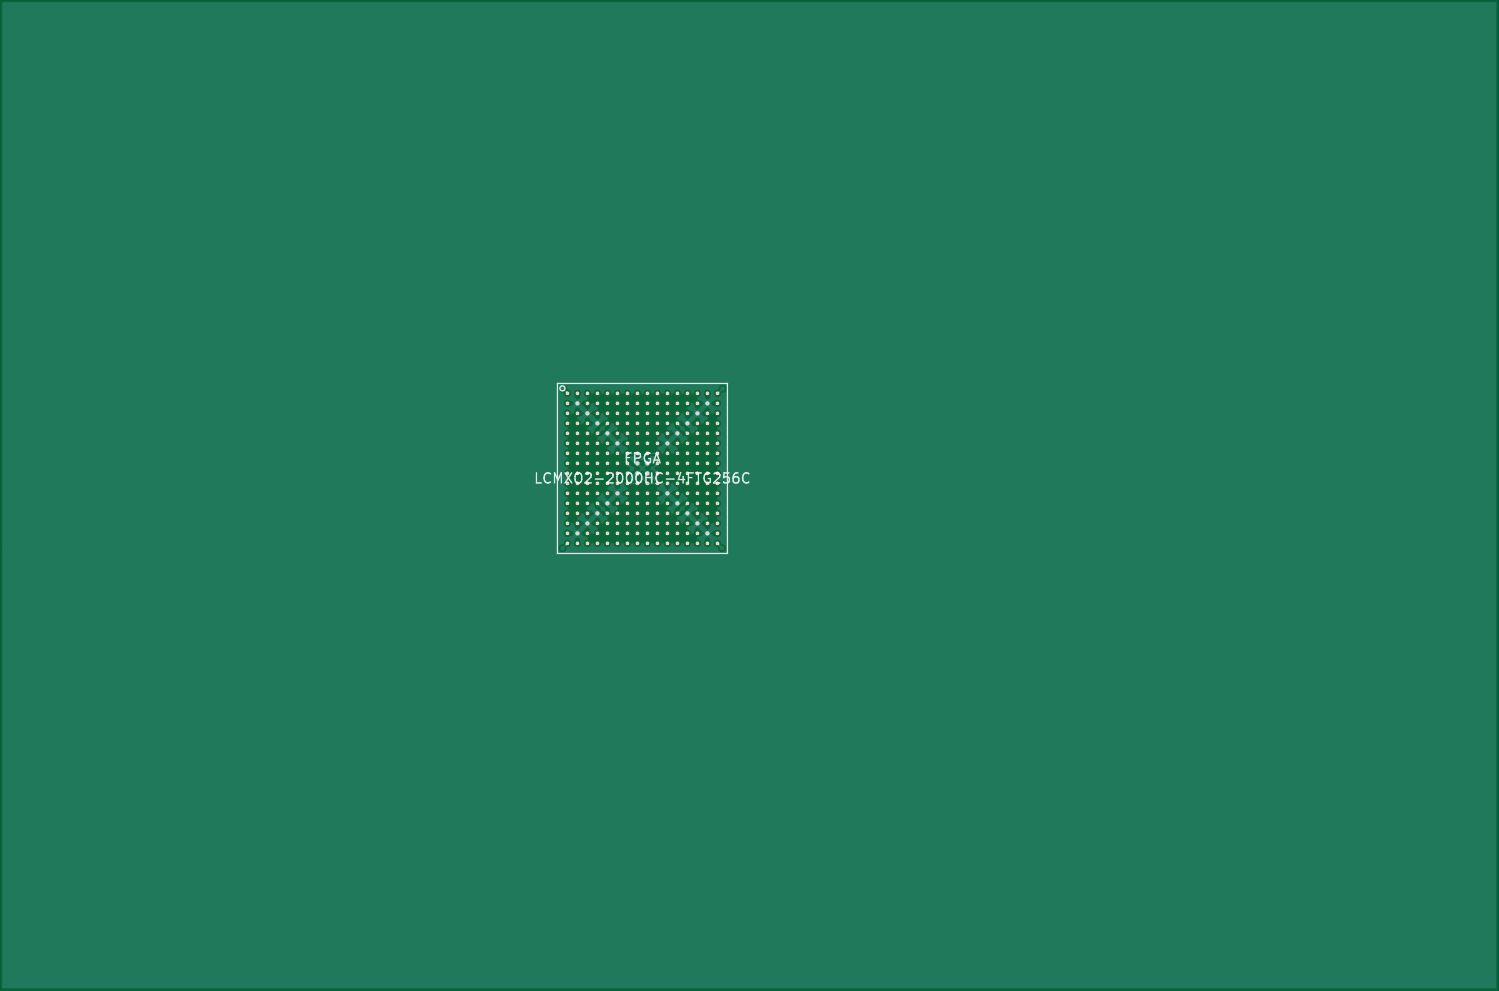
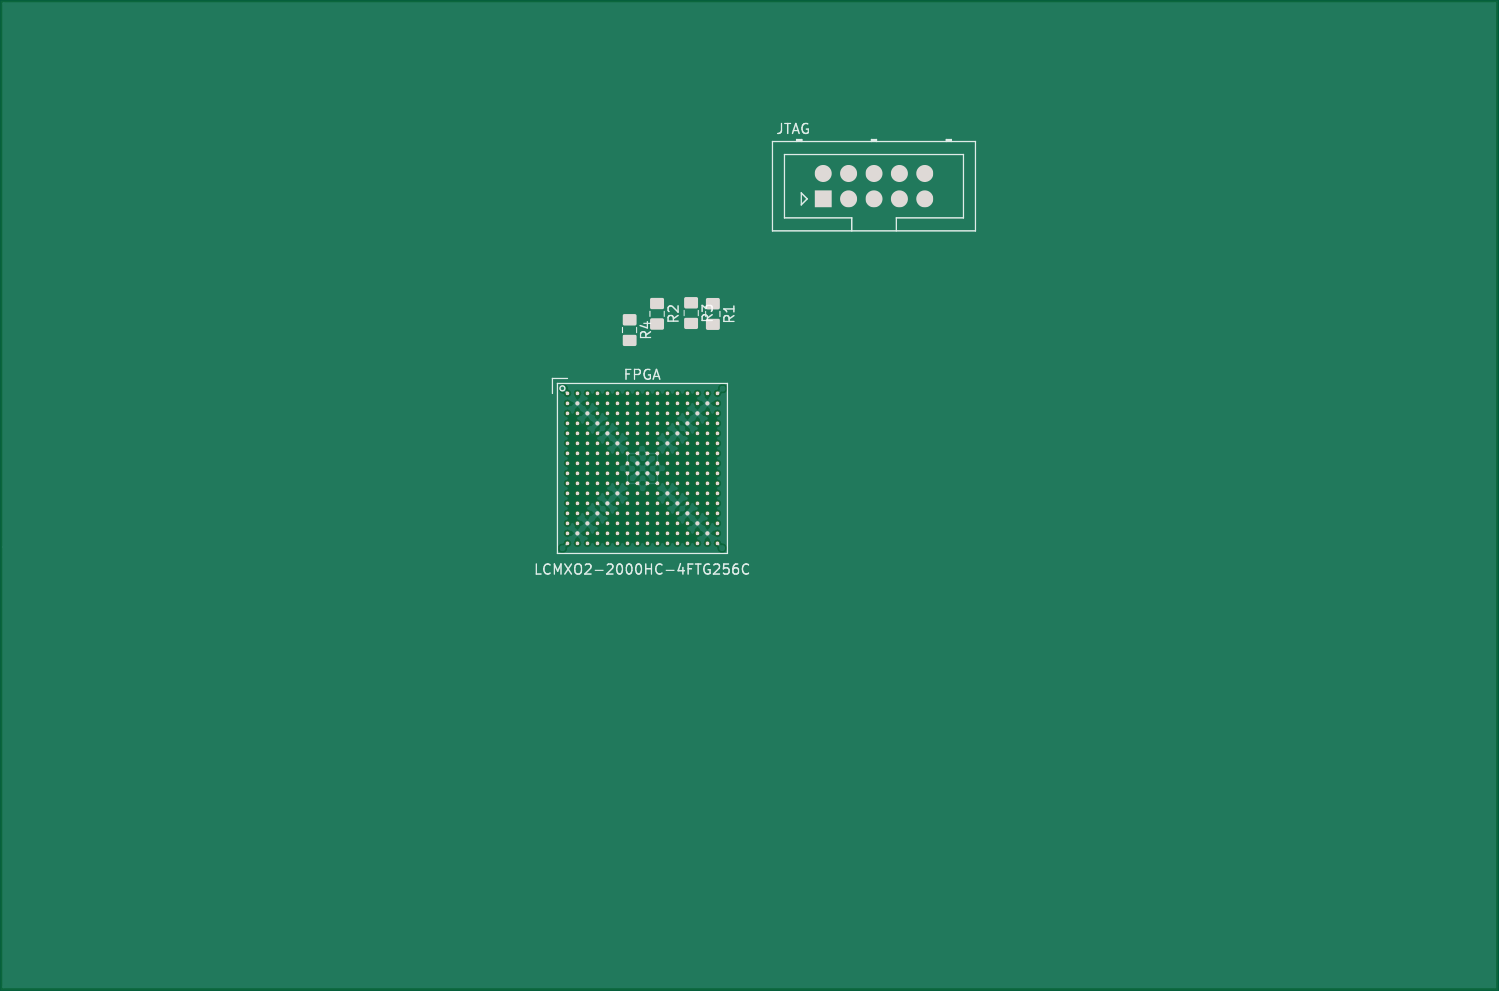
Added JTAG connector for MachXO2 chip

diff --git a/archimedes_bus_scope/pcb/archimedes_bus_scope.py b/archimedes_bus_scope/pcb/archimedes_bus_scope.py
@@ -143,6 +143,44 @@ fpga = [
     )
 ]
 
+# MachXO2 needs a pullup on INITN to complete configuration, and pullups are also recommended on PROGRAMN and DONE.
+# For JTAG, TMS, TDI, TDO have internal weak pullups, and TCK needs a 4k7 pulldown.
+fpga_pullups = [
+    myelin_kicad_pcb.R0805("10k", "3V3", "fpga_INITN"),
+    myelin_kicad_pcb.R0805("10k", "3V3", "fpga_PROGRAMN"),
+    myelin_kicad_pcb.R0805("10k", "3V3", "fpga_DONE"),
+    myelin_kicad_pcb.R0805("4k7", "GND", "fpga_TCK"),
+]
+
+# TODO MachXO2 JTAG header, Lattice format
+# See: https://github.com/google/myelin-acorn-electron-hardware/blob/master/notes/pld_programming_and_jtag.md
+cpld_jtag = myelin_kicad_pcb.Component(
+    footprint="Connector_Multicomp:Multicomp_MC9A12-1034_2x05_P2.54mm_Vertical",
+    identifier="JTAG",
+    value="jtag",
+    desc="2x5 header for JTAG programming.  Use generic 0.1 inch header strip or Digikey ED1543-ND.",
+    pins=[
+        Pin( 1, "TCK",  "fpga_TCK"), # top left
+        Pin( 2, "GND",  "GND"),      # top right
+        Pin( 3, "TMS",  "fpga_TMS"),
+        Pin( 4, "GND",  "GND"),
+        Pin( 5, "TDI",  "fpga_TDI"),
+        Pin( 6, "VCC",  "3V3"),
+        Pin( 7, "TDO",  "fpga_TDO"),
+        Pin( 8, "INIT", "fpga_INITN"),
+        Pin( 9, "TRST", "fpga_DONE"),
+        Pin(10, "PROG", "fpga_PROGRAMN"),
+    ],
+)
+# I wasn't sure whether to put INIT on pin 8 or not -- uncomment this to make a test point for it
+# cpld_INITN_TP = cpld_jtag = myelin_kicad_pcb.Component(
+#     footprint="Connector_PinHeader_2.54mm:PinHeader_1x01_P2.54mm_Vertical",
+#     identifier="INITN",
+#     value="INITN test point",
+#     desc="single header pin",
+#     pins=[Pin(1, "INITN", "fpga_INITN")],
+# )
+
 myelin_kicad_pcb.dump_netlist("%s.net" % PROJECT_NAME)
 myelin_kicad_pcb.dump_bom("bill_of_materials.txt",
                           "readable_bill_of_materials.txt")
